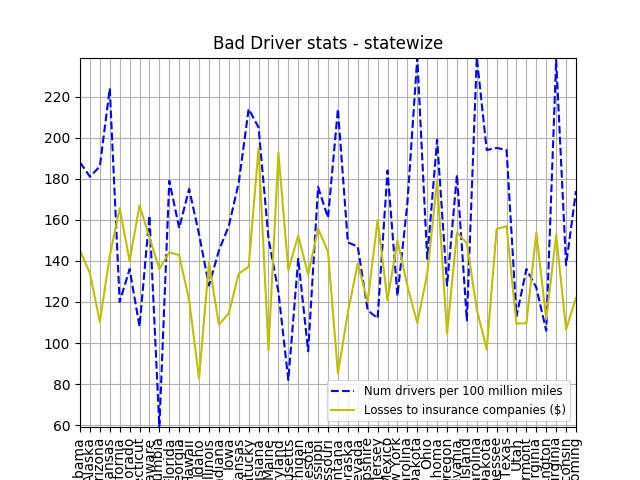
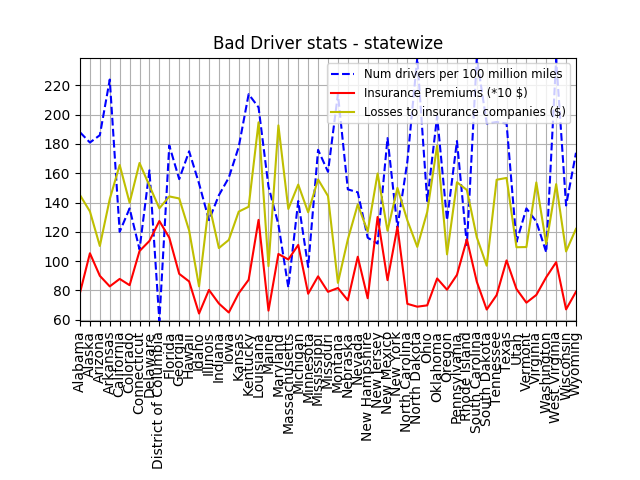
adding 3rd plot

Changed region(s): [[0.0625, 0.125, 0.9062, 1.0], [0.0625, 0.1562, 0.125, 0.25]]

diff --git a/part2d.py b/part2d.py
@@ -89,6 +89,6 @@ def parallel_plot():
 
 	
 
-# merged_bar_plot()
-# lineplot ()
+merged_bar_plot()
+lineplot ()
 parallel_plot()
